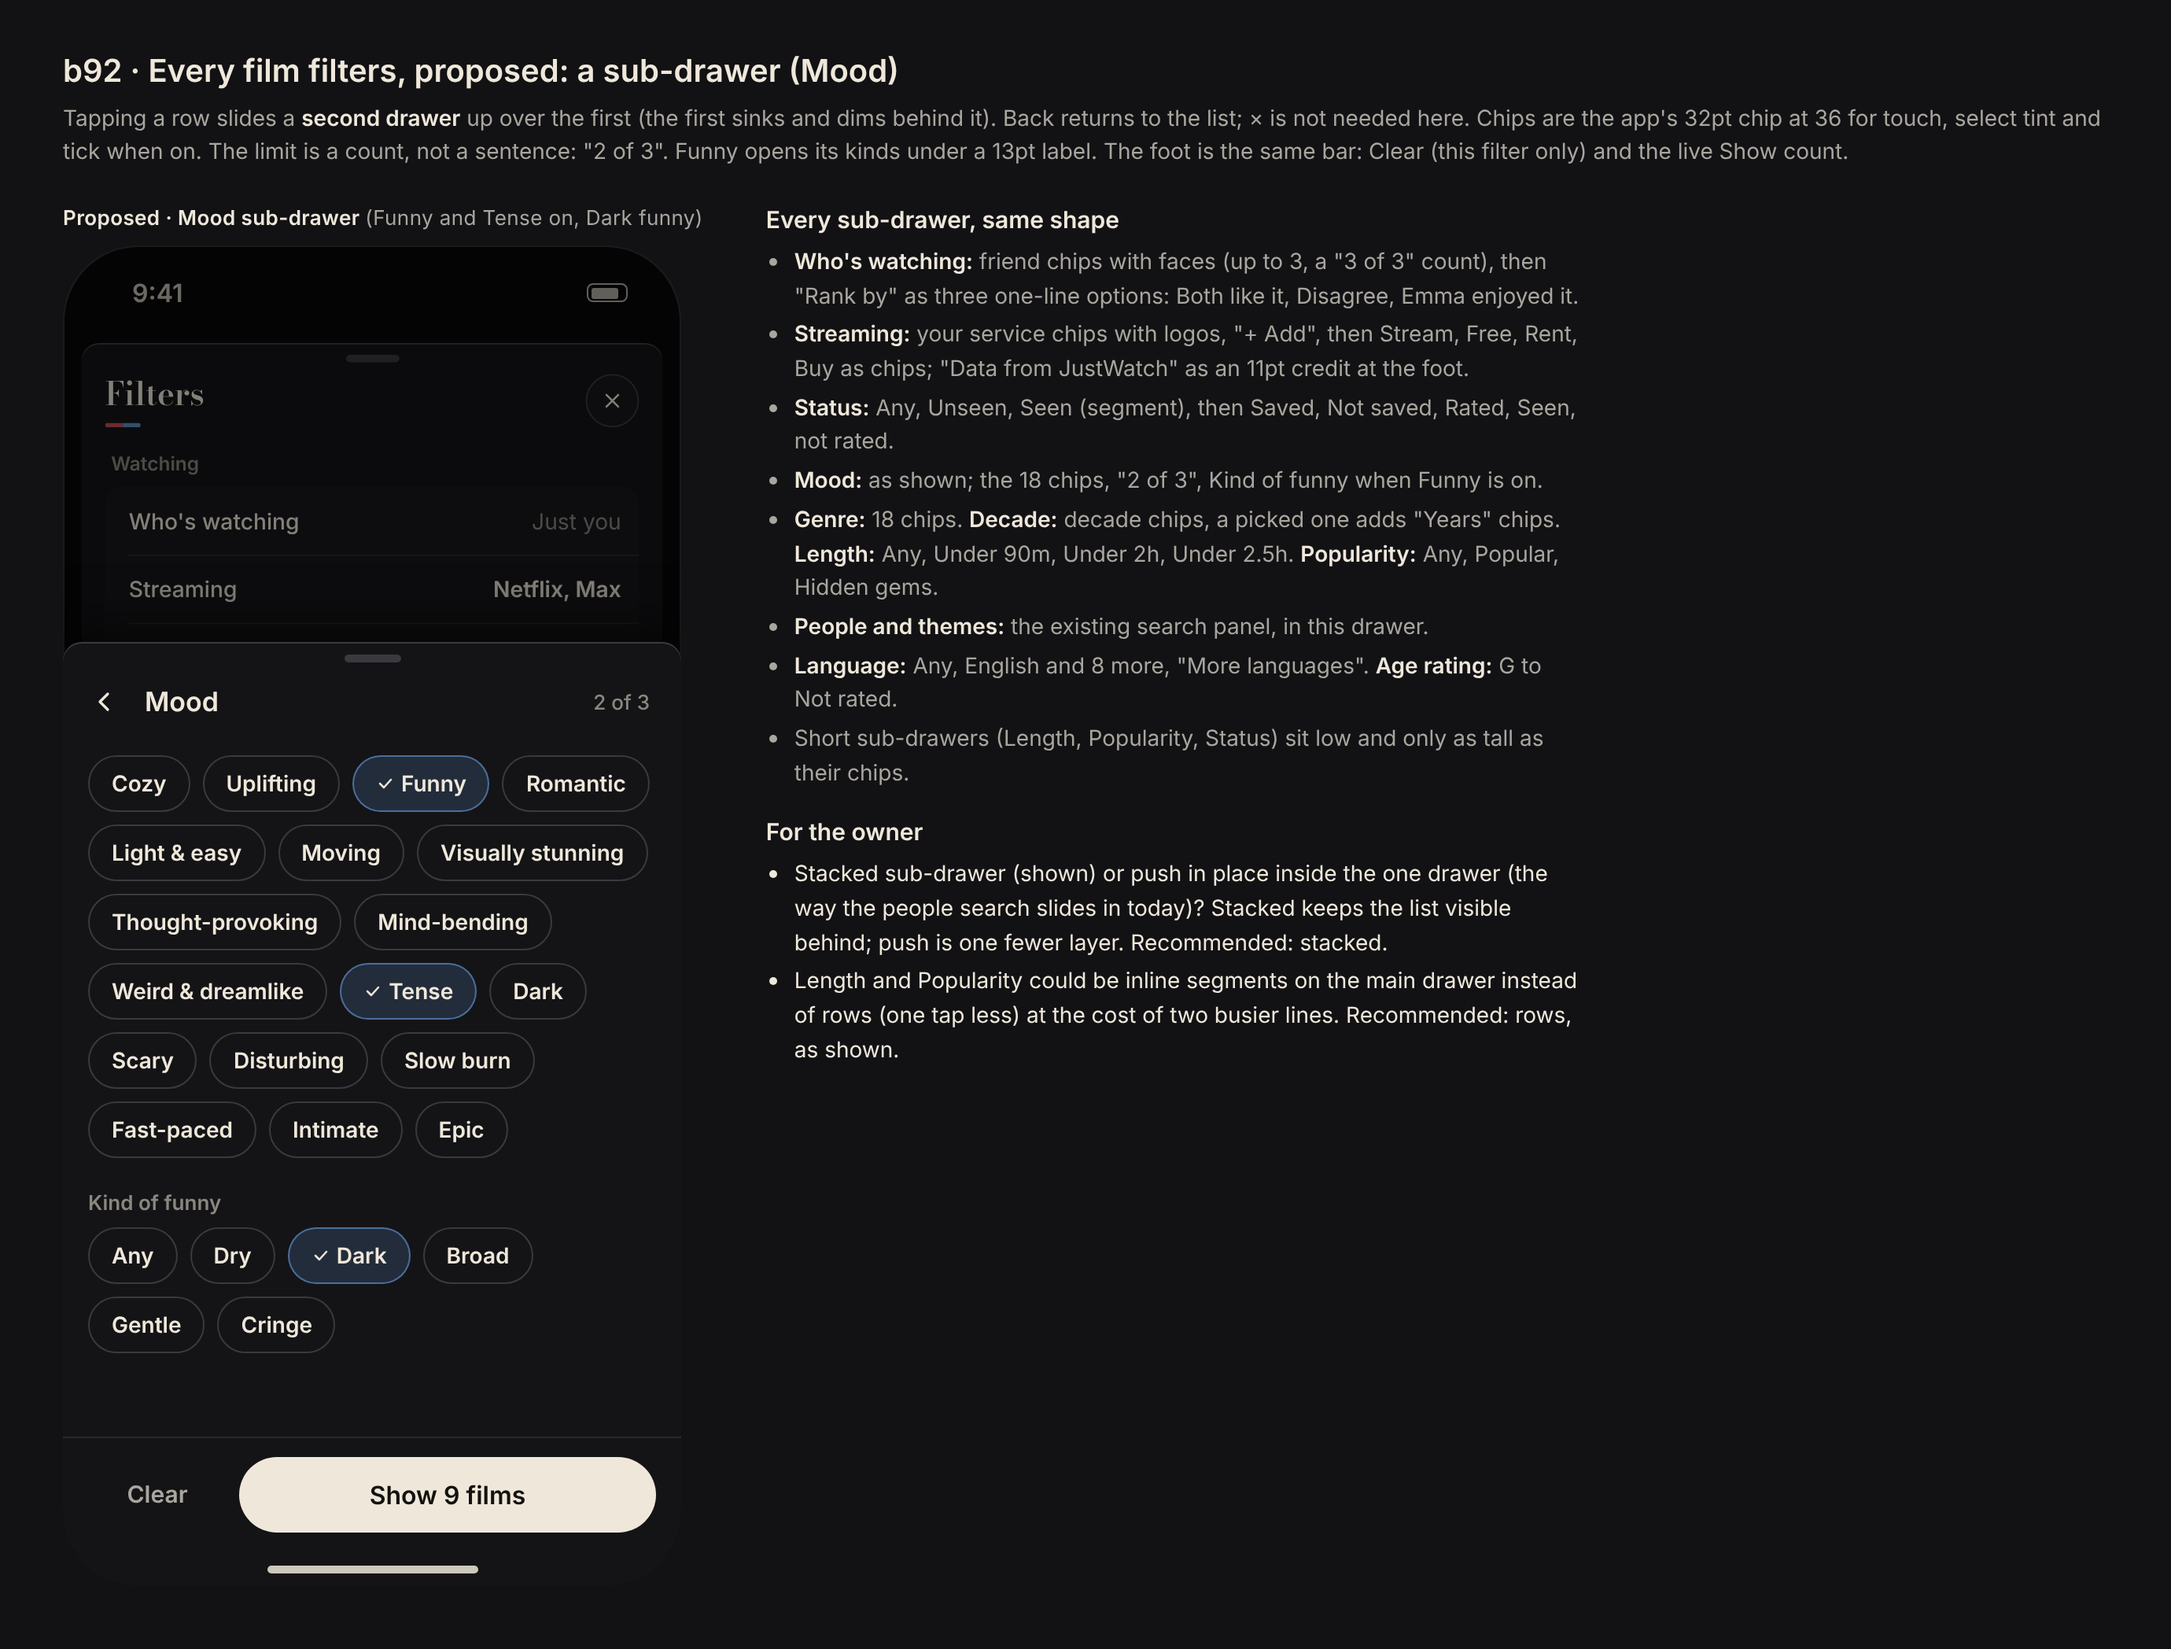
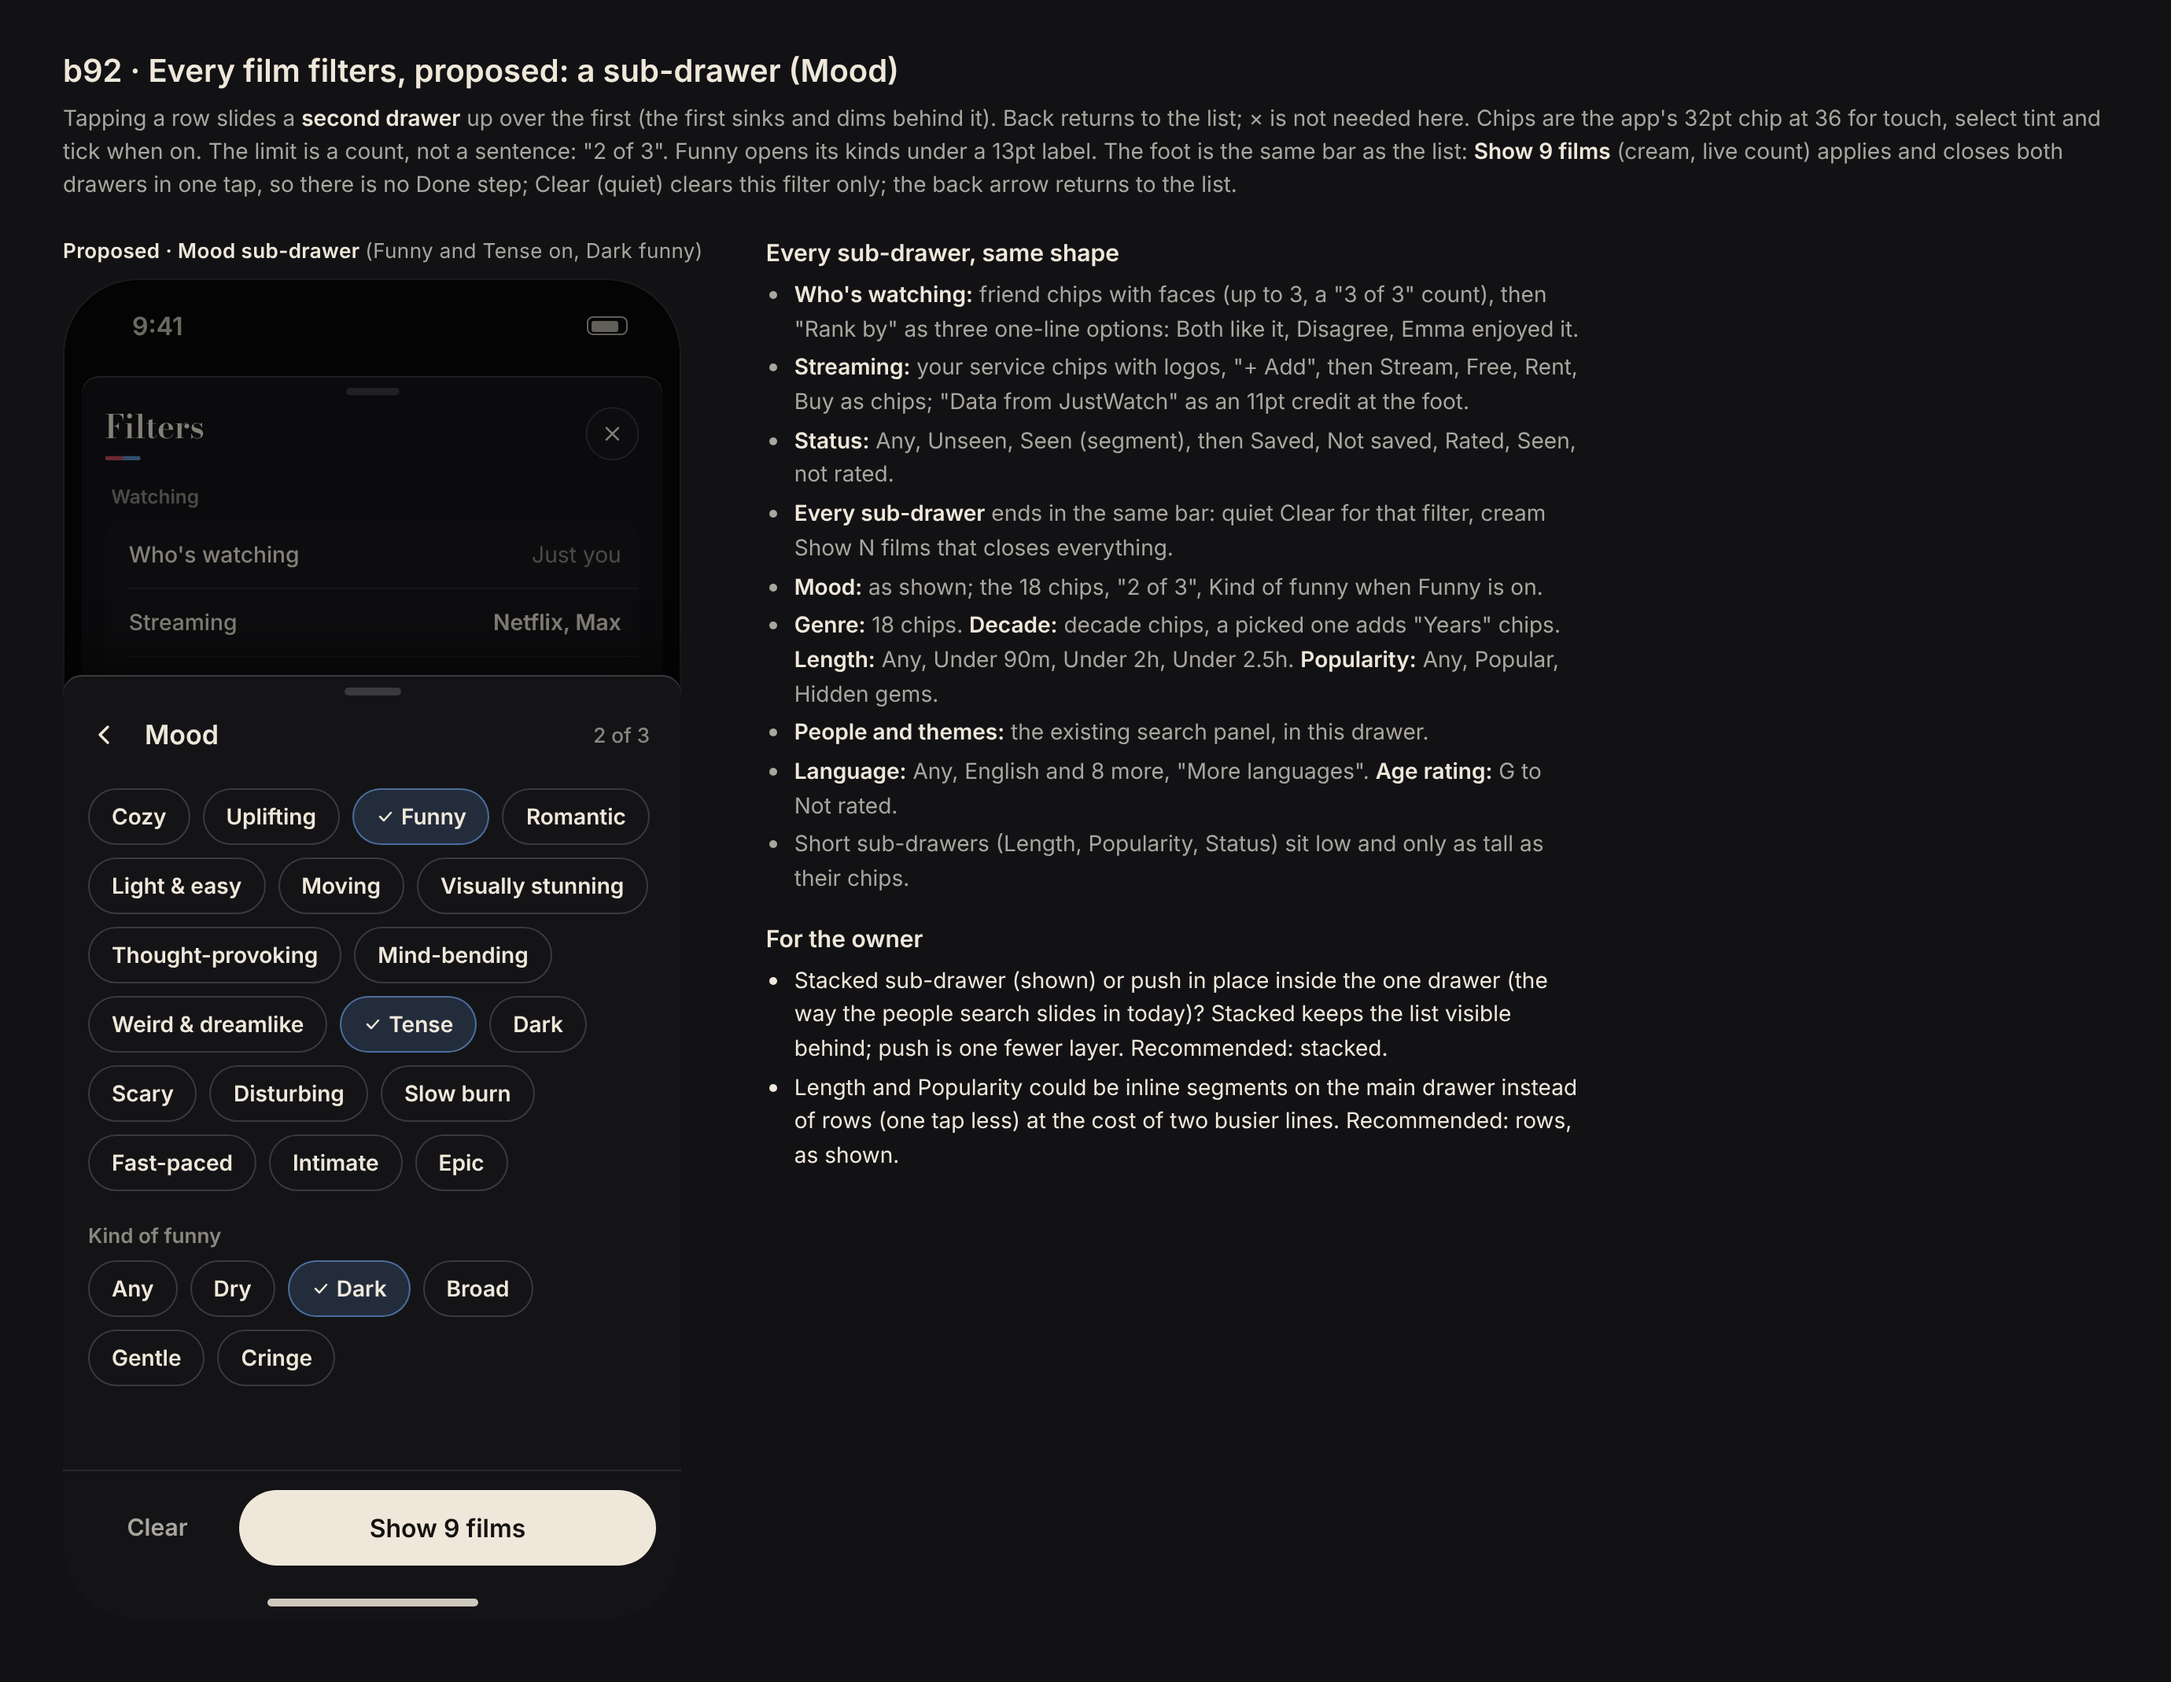
Build 39 mock: filters sub-drawer one-tap note (b92)
Claude-Session: https://claude.ai/code/session_013WRDCFXH8nihP92apJAVW7

diff --git a/mockups/journeys/b92-filters-proposed.html b/mockups/journeys/b92-filters-proposed.html
@@ -107,7 +107,7 @@
 <!-- 2 · a sub-drawer open -->
 <div class="board" id="p2">
   <div class="bt">b92 · Every film filters, proposed: a sub-drawer (Mood)</div>
-  <div class="bs">Tapping a row slides a <b>second drawer</b> up over the first (the first sinks and dims behind it). Back returns to the list; × is not needed here. Chips are the app's 32pt chip at 36 for touch, select tint and tick when on. The limit is a count, not a sentence: "2 of 3". Funny opens its kinds under a 13pt label. The foot is the same bar: Clear (this filter only) and the live Show count.</div>
+  <div class="bs">Tapping a row slides a <b>second drawer</b> up over the first (the first sinks and dims behind it). Back returns to the list; × is not needed here. Chips are the app's 32pt chip at 36 for touch, select tint and tick when on. The limit is a count, not a sentence: "2 of 3". Funny opens its kinds under a 13pt label. The foot is the same bar as the list: <b>Show 9 films</b> (cream, live count) applies and closes both drawers in one tap, so there is no Done step; Clear (quiet) clears this filter only; the back arrow returns to the list.</div>
   <div class="cols">
     <div>
       <div class="cap">Proposed · Mood sub-drawer <span>(Funny and Tense on, Dark funny)</span></div>
@@ -166,6 +166,7 @@
         <li><b>Who's watching:</b> friend chips with faces (up to 3, a "3 of 3" count), then "Rank by" as three one-line options: Both like it, Disagree, Emma enjoyed it.</li>
         <li><b>Streaming:</b> your service chips with logos, "+ Add", then Stream, Free, Rent, Buy as chips; "Data from JustWatch" as an 11pt credit at the foot.</li>
         <li><b>Status:</b> Any, Unseen, Seen (segment), then Saved, Not saved, Rated, Seen, not rated.</li>
+        <li><b>Every sub-drawer</b> ends in the same bar: quiet Clear for that filter, cream Show N films that closes everything.</li>
         <li><b>Mood:</b> as shown; the 18 chips, "2 of 3", Kind of funny when Funny is on.</li>
         <li><b>Genre:</b> 18 chips. <b>Decade:</b> decade chips, a picked one adds "Years" chips. <b>Length:</b> Any, Under 90m, Under 2h, Under 2.5h. <b>Popularity:</b> Any, Popular, Hidden gems.</li>
         <li><b>People and themes:</b> the existing search panel, in this drawer.</li>
